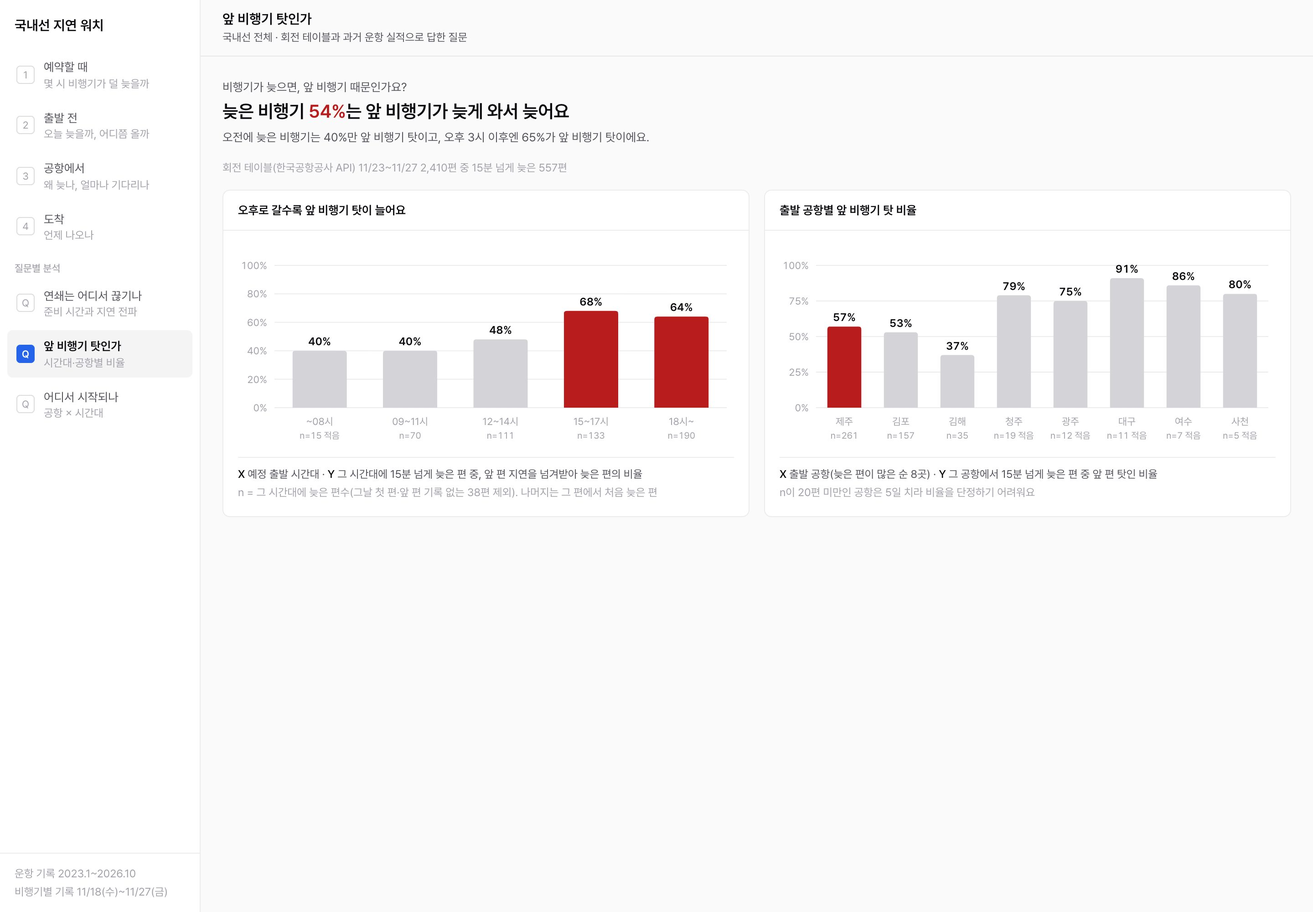
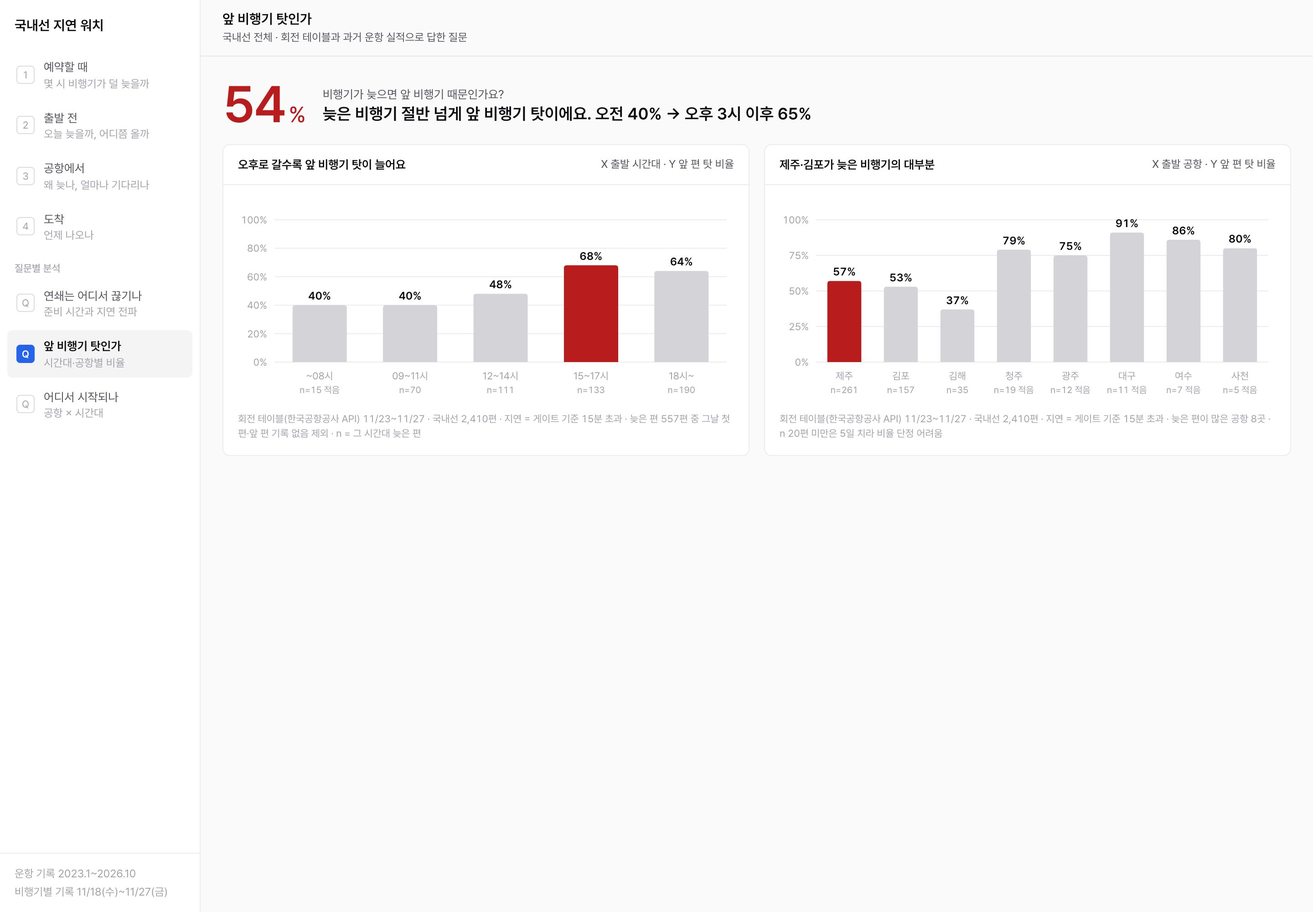
시안 다듬기: 큰 숫자+답 한 문장, 그래프마다 출처 한 줄, 강조색 하나만, 제주 날씨 결항 원인 막대 추가

diff --git a/web/components/QuestionPages.tsx b/web/components/QuestionPages.tsx
@@ -1,41 +1,23 @@
 "use client";
 
-// 질문별 분석 페이지: 한 질문 = 한 페이지, 그래프 2~3개. 모두 QuickSight 기본 차트(막대·열지도·KPI)로 옮길 수 있는 형태만 쓴다.
-// 그래프마다 X축·Y축과 값의 뜻을 한 줄로 붙이고, 표본이 작은 곳은 편수(n)를 같이 보여 준다.
-import type { ReactNode } from "react";
+// 질문별 분석 페이지: 한 질문 = 한 페이지. 큰 숫자 하나 + 답 한 문장 → 그래프 2개.
+// 차트는 QuickSight 기본 차트(막대·열지도)로 옮길 수 있는 형태만 쓴다. 강조는 막대·칸 하나만.
+// 카드 오른쪽 작은 글씨 = X·Y축, 그래프 아래 옅은 한 줄 = 출처(원천·기간·기준·n).
 import type { Airports, Questions } from "@/lib/types";
-import { Answer, Card, KpiTile } from "@/components/ui";
+import { Card, Hero, Src } from "@/components/ui";
 import { BarChart } from "@/components/charts";
 
 const pct = (a: number, b: number) => (b ? Math.round((100 * a) / b) : 0);
 const BANDS = ["~08시", "09~11시", "12~14시", "15~17시", "18시~"];
-const SMALL = 20; // 이보다 적으면 "표본 작음"
+const SMALL = 20; // 이보다 적으면 "적음"
+const md = (s: string) => `${+s.slice(4, 6)}/${+s.slice(6)}`;
+const KAC = (q: Questions) => `회전 테이블(한국공항공사 API) ${md(q.period.from)}~${md(q.period.to)} · 국내선 ${q.flights.toLocaleString()}편 · 지연 = 게이트 기준 15분 초과`;
+const XY = ({ x, y }: { x: string; y: string }) => <span>X {x} · Y {y}</span>;
 
-/** 그래프 아래 한 줄: X축·Y축과 값의 뜻 */
-function Axis({ x, y, note }: { x: string; y: string; note?: ReactNode }) {
-  return (
-    <p className="mt-3 border-t border-line pt-2 text-xs leading-5 text-ink-2">
-      <b className="font-medium text-ink">X</b> {x} · <b className="font-medium text-ink">Y</b> {y}
-      {note && <span className="block text-ink-3">{note}</span>}
-    </p>
-  );
-}
-
-function Source({ q, hist }: { q: Questions; hist?: boolean }) {
-  const d = (s: string) => `${+s.slice(4, 6)}/${+s.slice(6)}`;
-  return (
-    <p className="text-xs text-ink-3">
-      {hist
-        ? `과거 운항 실적(항공정보포털) ${q.od_period.from.slice(0, 4)}.${+q.od_period.from.slice(4, 6)}~${q.od_period.to.slice(0, 4)}.${+q.od_period.to.slice(4, 6)}, 국내선 여객 출발편`
-        : `회전 테이블(한국공항공사 API) ${d(q.period.from)}~${d(q.period.to)} ${q.flights.toLocaleString()}편 중 15분 넘게 늦은 ${q.late}편`}
-    </p>
-  );
-}
-
-/** 열지도(QuickSight Heat map과 같은 모양): 칸 색 = 값, 칸 글자 = 값 */
-function Heatmap({ rows, cols, cell, fmt, colLabel, rowLabel }: {
+/** 열지도(QuickSight Heat map): 가장 큰 칸만 진하게, 나머지는 옅게 */
+function Heatmap({ rows, cols, cell, fmt, rowLabel }: {
   rows: string[]; cols: string[]; cell: (r: string, c: string) => { v: number | null; tip: string };
-  fmt: (v: number) => string; colLabel?: (c: string) => string; rowLabel?: (r: string) => string;
+  fmt: (v: number) => string; rowLabel?: (r: string) => string;
 }) {
   const vals = rows.flatMap((r) => cols.map((c) => cell(r, c).v)).filter((v): v is number => v != null);
   const max = Math.max(1e-9, ...vals);
@@ -45,7 +27,7 @@ function Heatmap({ rows, cols, cell, fmt, colLabel, rowLabel }: {
         <thead>
           <tr>
             <th />
-            {cols.map((c) => <th key={c} className="whitespace-nowrap px-1 pb-1 text-center font-normal text-ink-3">{colLabel ? colLabel(c) : c}</th>)}
+            {cols.map((c) => <th key={c} className="whitespace-nowrap px-1 pb-1 text-center font-normal text-ink-3">{c}</th>)}
           </tr>
         </thead>
         <tbody>
@@ -54,10 +36,11 @@ function Heatmap({ rows, cols, cell, fmt, colLabel, rowLabel }: {
               <th className="whitespace-nowrap pr-2 text-right font-normal text-ink-2">{rowLabel ? rowLabel(r) : r}</th>
               {cols.map((c) => {
                 const { v, tip } = cell(r, c);
-                const a = v == null ? 0 : 0.08 + 0.82 * (v / max);
+                const top = v === max;
+                const a = v == null ? 0 : top ? 100 : Math.round(6 + 34 * (v / max));
                 return (
-                  <td key={c} title={tip} className="h-8 min-w-10 rounded-[4px] text-center"
-                    style={{ background: v == null ? "var(--subtle)" : `color-mix(in srgb, var(--bad) ${Math.round(a * 100)}%, var(--surface))`, color: a > 0.55 ? "#fff" : "var(--ink)" }}>
+                  <td key={c} title={tip} className={`h-8 min-w-10 rounded-[4px] text-center ${top ? "font-semibold" : ""}`}
+                    style={{ background: v == null ? "var(--subtle)" : `color-mix(in srgb, var(--bad) ${a}%, var(--surface))`, color: top ? "#fff" : "var(--ink-2)" }}>
                     {v == null ? <span className="text-ink-3">·</span> : fmt(v)}
                   </td>
                 );
@@ -70,72 +53,63 @@ function Heatmap({ rows, cols, cell, fmt, colLabel, rowLabel }: {
   );
 }
 
-/* ---------- C. 연쇄 지연은 어디서 끊기나요? ---------- */
+/* ---------- 연쇄 지연은 어디서 끊기나 ---------- */
 export function ChainBreakPage({ q }: { q: Questions }) {
   const s = q.c_slack, starts = q.c_len.reduce((a, b) => a + b.n, 0);
-  const half = s.find((x) => pct(x.ontime, x.n) >= 45);
+  const half = s.find((x) => pct(x.ontime, x.n) >= 45) ?? s[s.length - 1];
+  const best = s[s.length - 1];
   return (
     <div className="flex flex-col gap-4">
-      <Answer q="앞 비행기가 늦게 오면, 내 비행기도 꼭 늦나요?"
-        sub={<>준비 시간이 40분 미만이면 거의 다({100 - pct(s[0].ontime, s[0].n)}%) 따라 늦어요. 보통 비행기의 준비 시간은 {q.turn_median}분이라 여유가 5분 남짓이에요.</>}>
-        준비 시간이 <span className="text-ok">{half ? parseInt(half.bucket) : 60}분</span> 넘게 잡혀 있어야 절반쯤 제때 떠요
-      </Answer>
-      <Source q={q} />
-      <div className="grid grid-cols-2 gap-3 lg:grid-cols-4">
-        <KpiTile label="보통 준비 시간(중간값)" value={`${q.turn_median}`} unit="분" note="최소 필요 40분" />
-        <KpiTile label="앞 편이 늦게 온 편" value={`${s.reduce((a, b) => a + b.n, 0)}`} unit="편" note="15분 넘게 늦게 도착" />
-        <KpiTile label="그래도 제때 뜬 편" value={`${pct(s.reduce((a, b) => a + b.ontime, 0), s.reduce((a, b) => a + b.n, 0))}`} unit="%" tone="ok" />
-        <KpiTile label="3편 이상 이어진 연쇄" value={`${pct(q.c_len.find((x) => x.hops === 3)?.n ?? 0, starts)}`} unit="%" note={`처음 늦은 ${starts}편 기준`} />
-      </div>
+      <Hero q="앞 비행기가 늦으면 내 비행기도 꼭 늦나요?" value={`${100 - pct(s[0].ontime, s[0].n)}`} unit="%" tone="bad">
+        준비 시간이 40분이 안 되면 거의 다 따라 늦어요. {parseInt(half.bucket)}분은 넘어야 절반이 제때 떠요(보통 {q.turn_median}분)
+      </Hero>
       <div className="grid gap-4 xl:grid-cols-2">
-        <Card title="준비 시간이 길수록 지연이 끊겨요">
+        <Card title="준비 시간이 길수록 지연이 끊겨요" right={<XY x="준비 시간" y="제때 뜬 비율" />}>
           <BarChart showValues max={100}
-            bars={s.map((x, i) => ({ key: x.bucket, label: x.bucket, sub: `n=${x.n}`, value: pct(x.ontime, x.n), tone: i === 0 ? "bad" : i === s.length - 1 ? "ok" : undefined, tip: `${x.bucket} · ${x.n}편 중 ${x.ontime}편 제때 출발` }))} />
-          <Axis x="계획 준비 시간(앞 편 도착 예정 ~ 이 편 출발 예정)" y="앞 편이 15분 넘게 늦게 왔는데도 이 편이 제때(15분 이내) 뜬 비율 = 연쇄가 끊긴 비율"
-            note="n = 그 구간에서 앞 편이 늦게 온 편수" />
+            bars={s.map((x) => ({ key: x.bucket, label: x.bucket, sub: `n=${x.n}`, value: pct(x.ontime, x.n), tone: x === best ? "ok" : undefined, tip: `${x.bucket} · 앞 편이 늦은 ${x.n}편 중 ${x.ontime}편 제때 출발` }))} />
+          <Src>{KAC(q)} · 앞 편이 15분 넘게 늦게 도착한 {s.reduce((a, b) => a + b.n, 0)}편 · 준비 시간 = 앞 편 도착 예정~이 편 출발 예정</Src>
         </Card>
-        <Card title="처음 늦은 비행기는 지연을 몇 편까지 넘겼나">
+        <Card title="처음 늦은 비행기 절반 이상은 지연을 넘기지 않아요" right={<XY x="뒤이어 늦은 편 수" y="비행기 수" />}>
           <BarChart showValues unit="편"
-            bars={q.c_len.map((x) => ({ key: x.hops, label: x.hops === 0 ? "안 넘김" : x.hops === 3 ? "3편 이상" : `${x.hops}편`, sub: `${pct(x.n, starts)}%`, value: x.n, tone: x.hops === 0 ? "ok" : x.hops === 3 ? "bad" : undefined, tip: `${x.n}편` }))} />
-          <Axis x="같은 기체에서 뒤이어 늦은 편 수(앞 편 지연을 넘겨받아 15분 넘게 늦은 편이 연속된 수)" y="그렇게 연쇄를 시작한 비행기 수"
-            note={`처음 늦은 편 ${starts}편 기준`} />
+            bars={q.c_len.map((x) => ({ key: x.hops, label: x.hops === 0 ? "안 넘김" : x.hops === 3 ? "3편 이상" : `${x.hops}편`, sub: `${pct(x.n, starts)}%`, value: x.n, tone: x.hops === 0 ? "ok" : undefined, tip: `${x.n}편` }))} />
+          <Src>{KAC(q)} · 그날 처음 늦은 비행기 {starts}편 · 같은 기체에서 앞 편 지연을 넘겨받아 늦은 편이 이어진 수</Src>
         </Card>
       </div>
     </div>
   );
 }
 
-/* ---------- A. 늦은 비행기, 앞 비행기 탓인가요? ---------- */
+/* ---------- 앞 비행기 탓인가 ---------- */
 export function BlamePage({ q, AP }: { q: Questions; AP: Airports | null }) {
   const ko = (c: string) => AP?.[c]?.ko ?? c;
-  const prop = q.a_band.reduce((a, b) => a + b.prop, 0), skip = (q.origin_mix.first_leg ?? 0) + (q.origin_mix.unknown ?? 0);
+  const prop = q.a_band.reduce((a, b) => a + b.prop, 0);
   const am = q.a_band.slice(0, 2).reduce((a, b) => [a[0] + b.prop, a[1] + b.n], [0, 0]);
   const pm = q.a_band.slice(3).reduce((a, b) => [a[0] + b.prop, a[1] + b.n], [0, 0]);
+  const topBand = q.a_band.reduce((m, x) => (pct(x.prop, x.n) > pct(m.prop, m.n) ? x : m));
   const aps = q.a_airport.slice(0, 8);
+  const topAp = aps[0];
   return (
     <div className="flex flex-col gap-4">
-      <Answer q="비행기가 늦으면, 앞 비행기 때문인가요?"
-        sub={<>오전에 늦은 비행기는 {pct(am[0], am[1])}%만 앞 비행기 탓이고, 오후 3시 이후엔 {pct(pm[0], pm[1])}%가 앞 비행기 탓이에요.</>}>
-        늦은 비행기 <span className="text-bad">{pct(prop, q.late)}%</span>는 앞 비행기가 늦게 와서 늦어요
-      </Answer>
-      <Source q={q} />
+      <Hero q="비행기가 늦으면 앞 비행기 때문인가요?" value={`${pct(prop, q.late)}`} unit="%" tone="bad">
+        늦은 비행기 절반 넘게 앞 비행기 탓이에요. 오전 {pct(am[0], am[1])}% → 오후 3시 이후 {pct(pm[0], pm[1])}%
+      </Hero>
       <div className="grid gap-4 xl:grid-cols-2">
-        <Card title="오후로 갈수록 앞 비행기 탓이 늘어요">
+        <Card title="오후로 갈수록 앞 비행기 탓이 늘어요" right={<XY x="출발 시간대" y="앞 편 탓 비율" />}>
           <BarChart showValues max={100}
-            bars={q.a_band.map((x) => ({ key: x.band, label: x.band, sub: `n=${x.n}${x.n < SMALL ? " 적음" : ""}`, value: pct(x.prop, x.n), tone: pct(x.prop, x.n) >= 60 ? "bad" : undefined, tip: `${x.band} · 늦은 ${x.n}편 중 ${x.prop}편이 앞 편 탓` }))} />
-          <Axis x="예정 출발 시간대" y="그 시간대에 15분 넘게 늦은 편 중, 앞 편 지연을 넘겨받아 늦은 편의 비율" note={`n = 그 시간대에 늦은 편수(그날 첫 편·앞 편 기록 없는 ${skip}편 제외). 나머지는 그 편에서 처음 늦은 편`} />
+            bars={q.a_band.map((x) => ({ key: x.band, label: x.band, sub: `n=${x.n}${x.n < SMALL ? " 적음" : ""}`, value: pct(x.prop, x.n), tone: x === topBand ? "bad" : undefined, tip: `${x.band} · 늦은 ${x.n}편 중 ${x.prop}편이 앞 편 탓` }))} />
+          <Src>{KAC(q)} · 늦은 편 {q.late}편 중 그날 첫 편·앞 편 기록 없음 제외 · n = 그 시간대 늦은 편</Src>
         </Card>
-        <Card title="출발 공항별 앞 비행기 탓 비율">
+        <Card title="제주·김포가 늦은 비행기의 대부분" right={<XY x="출발 공항" y="앞 편 탓 비율" />}>
           <BarChart showValues max={100}
-            bars={aps.map((x) => ({ key: x.ap, label: ko(x.ap), sub: `n=${x.n}${x.n < SMALL ? " 적음" : ""}`, value: pct(x.prop, x.n), tone: x.n < SMALL ? undefined : pct(x.prop, x.n) >= 55 ? "bad" : undefined, tip: `${ko(x.ap)} · 늦은 ${x.n}편 중 ${x.prop}편이 앞 편 탓` }))} />
-          <Axis x="출발 공항(늦은 편이 많은 순 8곳)" y="그 공항에서 15분 넘게 늦은 편 중 앞 편 탓인 비율" note={`n이 ${SMALL}편 미만인 공항은 5일 치라 비율을 단정하기 어려워요`} />
+            bars={aps.map((x) => ({ key: x.ap, label: ko(x.ap), sub: `n=${x.n}${x.n < SMALL ? " 적음" : ""}`, value: pct(x.prop, x.n), tone: x === topAp ? "bad" : undefined, tip: `${ko(x.ap)} · 늦은 ${x.n}편 중 ${x.prop}편이 앞 편 탓` }))} />
+          <Src>{KAC(q)} · 늦은 편이 많은 공항 8곳 · n {SMALL}편 미만은 5일 치라 비율 단정 어려움</Src>
         </Card>
       </div>
     </div>
   );
 }
 
-/* ---------- B. 지연은 어디서 시작되나요? ---------- */
+/* ---------- 어디서 시작되나 ---------- */
 export function OriginPage({ q, AP }: { q: Questions; AP: Airports | null }) {
   const ko = (c: string) => AP?.[c]?.ko ?? c;
   const starts = q.b_cells.reduce((a, b) => a + b.n, 0);
@@ -143,29 +117,26 @@ export function OriginPage({ q, AP }: { q: Questions; AP: Airports | null }) {
   q.b_cells.forEach((c) => byAp.set(c.ap, (byAp.get(c.ap) ?? 0) + c.n));
   const apRows = [...byAp.entries()].sort((a, b) => b[1] - a[1]).map(([a]) => a);
   const top = [...q.b_cells].sort((a, b) => b.n - a.n)[0];
-  const cju = (byAp.get("CJU") ?? 0) + (byAp.get("GMP") ?? 0);
-  // 출발×도착: 운항 많은 공항 순
+  const cg = (byAp.get("CJU") ?? 0) + (byAp.get("GMP") ?? 0);
   const vol = new Map<string, number>();
   q.od.forEach((r) => { vol.set(r.dep, (vol.get(r.dep) ?? 0) + r.flights); vol.set(r.arr, (vol.get(r.arr) ?? 0) + r.flights); });
   const aps = [...vol.entries()].sort((a, b) => b[1] - a[1]).map(([a]) => a);
   const od = new Map(q.od.map((r) => [`${r.dep}|${r.arr}`, r]));
+  const p = q.od_period;
   return (
     <div className="flex flex-col gap-4">
-      <Answer q="지연은 어느 공항, 몇 시에 처음 시작되나요?"
-        sub={<>가장 많은 곳은 {ko(top.ap)} {top.band} 출발편({top.n}편)이에요. 제주는 오전부터 지연이 시작돼요.</>}>
-        처음 늦는 비행기 <span className="text-bad">{pct(cju, starts)}%</span>가 제주·김포에서 떠요
-      </Answer>
-      <Source q={q} />
-      <Card title="처음 늦은 비행기가 나온 공항 × 시간대">
+      <Hero q="지연은 어느 공항, 몇 시에 처음 시작되나요?" value={`${pct(cg, starts)}`} unit="%" tone="bad">
+        처음 늦는 비행기 대부분이 제주·김포에서 떠요. 가장 많은 곳은 {ko(top.ap)} {top.band}
+      </Hero>
+      <Card title="처음 늦은 비행기가 나온 공항 × 시간대" right={<XY x="출발 시간대" y="출발 공항" />}>
         <Heatmap rows={apRows} cols={BANDS} rowLabel={ko} fmt={(v) => `${v}`}
           cell={(r, c) => { const x = q.b_cells.find((y) => y.ap === r && y.band === c); return { v: x ? x.n : null, tip: `${ko(r)} ${c} · ${x?.n ?? 0}편` }; }} />
-        <Axis x="예정 출발 시간대" y="출발 공항" note={`칸 값 = 앞 편은 제때 왔는데 그 편에서 처음 15분 넘게 늦은 편수(연쇄 시작점), 모두 ${starts}편. 빈칸(·) = 0편`} />
+        <Src>{KAC(q)} · 칸 = 앞 편은 제때 왔는데 그 편에서 처음 늦은 편수, 모두 {starts}편 · · = 0편</Src>
       </Card>
-      <Card title="노선 전체 그림: 출발 × 도착 지연률">
+      <Card title="노선 전체: 출발 × 도착 지연률" right={<XY x="도착 공항" y="출발 공항" />}>
         <Heatmap rows={aps} cols={aps} fmt={(v) => `${Math.round(v)}`}
           cell={(r, c) => { const x = od.get(`${r}|${c}`); return x && x.base >= 300 ? { v: (100 * x.late) / x.base, tip: `${r} → ${c} · ${x.base.toLocaleString()}편 중 ${Math.round((100 * x.late) / x.base)}% 지연` } : { v: null, tip: x ? `${r} → ${c} · ${x.base}편(적음)` : `${r} → ${c} · 노선 없음` }; }} />
-        <Axis x="도착 공항" y="출발 공항" note="칸 값 = 15분 넘게 늦게 출발한 편 비율(%). 운항 많은 공항 순. 빈칸(·) = 노선 없음 또는 300편 미만" />
-        <div className="mt-2"><Source q={q} hist /></div>
+        <Src>과거 운항 실적(항공정보포털) {p.from.slice(0, 4)}.{+p.from.slice(4, 6)}~{p.to.slice(0, 4)}.{+p.to.slice(4, 6)} · 국내선 여객 출발편 · 칸 = 15분 넘게 늦게 출발한 비율(%) · · = 노선 없음 또는 300편 미만</Src>
       </Card>
     </div>
   );

diff --git a/web/components/BookTab.tsx b/web/components/BookTab.tsx
@@ -3,7 +3,8 @@
 // 예약할 때: 질문 → 답 → KPI → 시간대 차트 → 항공사·비행기 표 → 늦는 이유 → (제주행이면) 월별 결항
 import type { History, RouteAirline, RouteFlight, RouteHour } from "@/lib/types";
 import { CAUSE, hourName, late10, tenOf } from "@/lib/words";
-import { Airline, Answer, Card, KpiTile, Meter, Table, type Col } from "@/components/ui";
+import { useEffect, useState } from "react";
+import { Airline, Answer, Card, KpiTile, Meter, Src, Table, type Col } from "@/components/ui";
 import { BarChart } from "@/components/charts";
 
 export function BookTab({ h, dep, arr }: { h: History; dep: string; arr: string }) {
@@ -26,6 +27,8 @@ export function BookTab({ h, dep, arr }: { h: History; dep: string; arr: string 
   if (!route || !best || !worst) return <Card><p className="text-ink-2">이 노선은 기록이 부족해요</p></Card>;
 
   const rRate = Math.round((1000 * route.late) / route.base) / 10;
+  const per = `${h.period.from.slice(0, 4)}.${+h.period.from.slice(4, 6)}~${h.period.to.slice(0, 4)}.${+h.period.to.slice(4, 6)}`;
+  const SRC = `항공정보포털 운항 실적 · 국내선 여객 출발편 · 지연 = 게이트 기준 15분 초과`;
   const airCols: Col<RouteAirline>[] = [
     { key: "rk", label: "순위", width: "48px", render: (a) => <span className="text-ink-2">{airlines.indexOf(a) + 1}</span> },
     { key: "nm", label: "항공사", render: (a) => <Airline name={a.airline} /> },
@@ -57,18 +60,21 @@ export function BookTab({ h, dep, arr }: { h: History; dep: string; arr: string 
 
       <Card title="출발 시간대별 15분 넘게 늦게 뜬 비율">
         <BarChart
-          bars={hours.map((x) => ({ key: x.h, label: `${x.h}시`, value: Math.round(1000 * rate(x)) / 10, tone: x === best ? "ok" : x === worst ? "bad" : undefined, tip: `${x.h}시 · 10번 중 ${tenOf(x.late, x.base)}번 · ${x.flights.toLocaleString()}편` }))}
+          bars={hours.map((x) => ({ key: x.h, label: `${x.h}시`, value: Math.round(1000 * rate(x)) / 10, tone: x === best ? "ok" : undefined, tip: `${x.h}시 · 10번 중 ${tenOf(x.late, x.base)}번 · ${x.flights.toLocaleString()}편` }))}
           tickEvery={2}
-          legend={[{ tone: "ok", label: "제일 덜 늦는 시간" }, { tone: "bad", label: "제일 많이 늦는 시간" }]}
+          legend={[{ tone: "ok", label: "제일 덜 늦는 시간" }]}
         />
+        <Src>{SRC} · {per} · {dep} → {arr} {route.base.toLocaleString()}편 · 그 시간대 편 중 늦은 비율 · 200편 미만 시간대 제외</Src>
       </Card>
 
       <div className="grid gap-4 xl:grid-cols-2">
         <Card title="제일 많이 늦는 항공사">
           <Table cols={airCols} rows={airlines} rowKey={(a) => a.airline} />
+          <Src>{SRC} · {per} · 이 노선 200편 이상, 지금도 운항하는 항공사</Src>
         </Card>
         <Card title="제일 자주 늦는 비행기">
           <Table cols={flCols} rows={flights} rowKey={(f) => f.flight} />
+          <Src>{SRC} · 2025.1~{h.period.to.slice(0, 4)}.{+h.period.to.slice(4, 6)} · 편명별 100편 이상</Src>
         </Card>
       </div>
 
@@ -82,6 +88,7 @@ export function BookTab({ h, dep, arr }: { h: History; dep: string; arr: string 
               { key: "c", label: "이유", render: (c) => CAUSE[c.cause_group] },
               { key: "v", label: "늦은 비행기 100대 중", align: "right", render: (c) => `${Math.max(1, Math.round((100 * c.late) / ctot))}대` },
             ]} rows={causes.slice(0, 4)} rowKey={(c) => c.cause_group} />
+            <Src>{SRC} · {per} · 15분 넘게 늦은 편의 기록된 사유 · 사유 분류는 2023.1부터</Src>
           </Card>
         )}
         <Card title="전체 국내선에서 늦는 이유 순위">
@@ -90,6 +97,7 @@ export function BookTab({ h, dep, arr }: { h: History; dep: string; arr: string 
             { key: "c", label: "이유", render: (c) => <span className={causes[0] && c.cause_group === causes[0].cause_group ? "font-semibold" : ""}>{CAUSE[c.cause_group]}</span> },
             { key: "v", label: "늦은 비행기 100대 중", align: "right", render: (c) => `${Math.max(1, Math.round((100 * c.late) / atot))}대` },
           ]} rows={all.slice(0, 5)} rowKey={(c) => c.cause_group} />
+          <Src>{SRC} · 2025.1~{h.period.to.slice(0, 4)}.{+h.period.to.slice(4, 6)} · 국내선 전체 늦은 편의 기록된 사유</Src>
         </Card>
       </div>
 
@@ -98,7 +106,11 @@ export function BookTab({ h, dep, arr }: { h: History; dep: string; arr: string 
   );
 }
 
+type JejuWeather = { source: string; total: number; kinds: { kind: string; n: number }[]; after_2023: { weather_cancel: number; note: string } };
+
 function JejuCard({ h, dep }: { h: History; dep: string }) {
+  const [W, setW] = useState<JejuWeather | null>(null);
+  useEffect(() => { fetch("/data/jeju_weather.json").then((r) => r.json()).then(setW).catch(() => setW(null)); }, []);
   const jo = dep !== "제주" && h.jeju_month.some((r) => r.dep === dep) ? dep : "전체";
   const m = Array.from({ length: 12 }, (_, i) => ({ m: i + 1, f: 0, c: 0, w: 0 }));
   h.jeju_month.filter((r) => r.m && (jo === "전체" || r.dep === jo)).forEach((r) => { const x = m[(r.m as number) - 1]; x.f += r.flights; x.c += r.cancelled; x.w += r.cancelled_weather; });
@@ -116,6 +128,16 @@ function JejuCard({ h, dep }: { h: History; dep: string }) {
         </Answer>
       </div>
       <BarChart bars={m.map((x) => ({ key: x.m, label: `${x.m}월`, value: per(x), tone: x === top ? "bad" : undefined, tip: `${x.m}월 · 100편 중 ${per(x)}편 결항 · ${x.f.toLocaleString()}편` }))} height={180} />
+      <Src>항공정보포털 운항 실적 · {h.period.from.slice(0, 4)}.{+h.period.from.slice(4, 6)}~{h.period.to.slice(0, 4)}.{+h.period.to.slice(4, 6)} · {jo === "전체" ? "전국" : jo} → 제주 여객 출발편 · 결항률 = 결항 ÷ 운항</Src>
+      {W && (
+        <div className="mt-5 border-t border-line pt-4">
+          <p className="mb-1 text-[13px] font-semibold text-ink">날씨 결항은 무엇 때문이었나</p>
+          <p className="mb-2 text-xs text-ink-2">바람·눈·태풍이 {Math.round((100 * W.kinds.filter((k) => ["바람", "눈", "태풍"].includes(k.kind)).reduce((a, b) => a + b.n, 0)) / W.total)}%</p>
+          <BarChart showValues height={170}
+            bars={W.kinds.filter((k) => k.n >= 5).map((k, i) => ({ key: k.kind, label: k.kind, value: Math.round((100 * k.n) / W.total), tone: i === 0 ? "bad" : undefined, tip: `${k.kind} · ${k.n}편` }))} />
+          <Src>{W.source} · 날씨 결항 {W.total.toLocaleString()}편 · 2023년부터는 사유가 &apos;기상&apos; 하나로만 기록돼 종류를 알 수 없음</Src>
+        </div>
+      )}
     </Card>
   );
 }

diff --git a/web/components/FlightTabs.tsx b/web/components/FlightTabs.tsx
@@ -4,13 +4,14 @@
 import { useEffect, useMemo, useState } from "react";
 import type { Airports, History, Leg, Satellite } from "@/lib/types";
 import { clock, dayLabel, delayTone, delayWord, dur, hm, mins, shift } from "@/lib/words";
-import { Airline, Answer, Badge, Card, KpiTile, Table, type Col } from "@/components/ui";
+import { Airline, Answer, Badge, Card, KpiTile, Src, Table, type Col } from "@/components/ui";
 import { SatMap } from "@/components/SatMap";
 import { CascadeGraph } from "@/components/CascadeGraph";
 import { cascadeOrigin, computeCascade, MTT_MIN } from "@/lib/cascade";
 
 type Ctx = { h: History; AP: Airports; ROT: Record<string, Leg[]>; DAYS: string[]; day: string; cur: Leg; goDay: (d: string, fno?: string) => void; SAT: Satellite | null };
 const koOf = (AP: Airports) => (c: string | null) => (c ? AP[c]?.ko ?? c : "");
+const KACS = (days: string[]) => `회전 테이블(한국공항공사 API) ${days.length ? `${dayLabel(days[0])}~${dayLabel(days[days.length - 1])}` : ""} · 지연 = 게이트 기준 15분 초과`;
 const legsOf = (rows: Leg[], r: Leg) => rows.filter((x) => x.reg_no === r.reg_no).sort((a, b) => (a.dep_sched_at < b.dep_sched_at ? -1 : 1));
 
 export function LeaveTab({ h, AP, ROT, DAYS, day, cur, goDay, SAT }: Ctx) {
@@ -45,6 +46,7 @@ export function LeaveTab({ h, AP, ROT, DAYS, day, cur, goDay, SAT }: Ctx) {
       <div className="grid gap-4 xl:grid-cols-[minmax(0,3fr)_minmax(0,2fr)]">
         <Card title="내가 탈 비행기는 지금 어디쯤?">
           <SatMap key={r.flight_no + day} legs={prev ? [prev, r] : [r]} cur={r} AP={AP} SAT={SAT} />
+          <Src>{KACS([day])} · 위치는 이륙·착륙 시각 사이를 나눈 추정 · 위성 사진 Esri</Src>
         </Card>
         <Card title={`${r.flight_no}, 다른 날은 어땠어요?`} right={<span>최근 {seen.length}번 운항 중 {lateN}번 늦음</span>}>
           <div className="mb-4 grid grid-cols-2 gap-3">{cmp("하루 전", shift(day, -1))}{cmp("일주일 전 같은 요일", shift(day, -7))}</div>
@@ -54,6 +56,7 @@ export function LeaveTab({ h, AP, ROT, DAYS, day, cur, goDay, SAT }: Ctx) {
               { key: "s", label: "출발", align: "right", render: (dd) => { const x = on(dd); return x ? <Badge tone={delayTone(x.dep_delay_gate_est_min)}>{delayWord(x.dep_delay_gate_est_min)}</Badge> : <span className="text-ink-3">운항 없음</span>; } },
             ]}
             rows={[...DAYS].reverse()} rowKey={(dd) => dd} selected={(dd) => dd === day} onRow={(dd) => on(dd) && goDay(dd, r.flight_no)} />
+          <Src>{KACS(DAYS)} · 같은 편명·같은 출발 공항</Src>
         </Card>
       </div>
 
@@ -64,6 +67,7 @@ export function LeaveTab({ h, AP, ROT, DAYS, day, cur, goDay, SAT }: Ctx) {
           { key: "no", label: "편명", wide: true, render: (l) => l.flight_no },
           { key: "s", label: "출발", align: "right", render: (l) => <Badge tone={delayTone(l.dep_delay_gate_est_min)}>{delayWord(l.dep_delay_gate_est_min)}</Badge> },
         ]} rows={legs} rowKey={(l) => l.flight_no + l.dep_sched_at} selected={(l) => l === r} />
+        <Src>{KACS([day])} · 같은 등록번호 {r.reg_no}의 그날 비행</Src>
       </Card>
 
       <Domino legs={legs} r={r} ko={ko} />
@@ -97,6 +101,7 @@ function Domino({ legs, r, ko }: { legs: Leg[]; r: Leg; ko: (c: string | null) =
         {extra > 0 && <span className="font-medium text-ink">→ 내 비행기 {moved > 0 ? <span className="text-bad">{dur(moved)} 더 늦어요</span> : <span className="text-ok">그대로예요</span>}</span>}
       </div>
       <CascadeGraph chain={chain} myFlight={r.flight_no} ko={ko} />
+      <Src>회전 테이블(한국공항공사 API) {r.flight_date} · 같은 기체 {r.reg_no} · 넘어온 지연 = max(0, 앞 편 착륙 + 5분 + 40분 − 출발 예정) · 슬라이더는 가정</Src>
     </Card>
   );
 }
@@ -139,6 +144,7 @@ export function AirportTab({ h, AP, ROT, day, cur }: Ctx) {
               </div>
             </>
           ) : <p className="text-ink-2">이 노선은 지난 기록이 부족해요</p>}
+          <Src>항공정보포털 운항 실적 {h.period.from.slice(0, 4)}.{+h.period.from.slice(4, 6)}~{h.period.to.slice(0, 4)}.{+h.period.to.slice(4, 6)} · 같은 노선·같은 출발 시각대 출발 지연 중간값·90% 값{hr ? ` · ${hr.flights.toLocaleString()}편` : ""}</Src>
         </Card>
         <Card title="다른 비행기로 바꿀 수 있을까요?" right={<span>{alts.length ? `${ko(r.arr_airport)} 가는 다음 비행기 ${alts.length}편` : "다음 비행기 없음"}</span>}>
           {alts.length ? (
@@ -149,6 +155,7 @@ export function AirportTab({ h, AP, ROT, day, cur }: Ctx) {
               { key: "s", label: "출발", align: "right", render: (x) => <Badge tone={delayTone(x.dep_delay_gate_est_min)}>{x.dep_delay_gate_est_min == null ? "예정" : delayWord(x.dep_delay_gate_est_min)}</Badge> },
             ] as Col<Leg>[]} rows={alts} rowKey={(x) => x.flight_no + x.dep_sched_at} />
           ) : <p className="text-ink-2">이날은 {ko(r.arr_airport)} 가는 다음 비행기가 없어요</p>}
+          <Src>{KACS([day])} · 같은 노선, 내 출발 예정 30분 전부터 5편</Src>
         </Card>
       </div>
     </div>
@@ -178,6 +185,7 @@ export function ArriveTab({ AP, cur }: Ctx) {
           <label className="flex flex-col gap-1 text-xs text-ink-2">공항에서 나오는 데(분)<input type="number" min={0} step={5} value={out} onChange={(e) => setOut(+e.target.value || 0)} className={`${field} w-28`} /></label>
           <label className="flex flex-col gap-1 text-xs text-ink-2">약속 장소까지(분)<input type="number" min={0} step={5} value={move} onChange={(e) => setMove(+e.target.value || 0)} className={`${field} w-28`} /></label>
         </div>
+        <Src>회전 테이블(한국공항공사 API) {r.flight_date} 착륙 기록 · 착륙 + 5분(게이트) + 입력한 시간으로 계산</Src>
         <p className="mt-4 text-xl font-semibold">{left >= 0 ? <>약속까지 <span className="text-ok">{dur(left)}</span> 남아요</> : <>약속에 <span className="text-bad">{dur(-left)}</span> 늦어요</>}</p>
       </Card>
     </div>

diff --git a/web/components/ui.tsx b/web/components/ui.tsx
@@ -153,3 +153,23 @@ export function Meter({ value, max, tone }: { value: number; max: number; tone?:
     </span>
   );
 }
+
+/** 그래프 아래 출처 한 줄(작고 옅게): 원천 · 집계 기간 · 지연 기준 · n */
+export function Src({ children }: { children: ReactNode }) {
+  return <p className="num mt-3 text-[11px] leading-4 text-ink-3">{children}</p>;
+}
+
+/** 페이지 맨 위: 질문 한 줄 + 큰 숫자 하나 + 답 한 문장 */
+export function Hero({ q, value, unit, tone, children }: { q: string; value: string; unit?: string; tone?: Tone; children: ReactNode }) {
+  return (
+    <div className="flex flex-wrap items-end gap-x-5 gap-y-1">
+      <div className={`num text-[56px] font-semibold leading-none tracking-[-0.03em] ${tone ? TONE_TEXT[tone] : "text-ink"}`}>
+        {value}<small className="ml-1 text-2xl font-medium">{unit}</small>
+      </div>
+      <div className="min-w-0 pb-1">
+        <p className="text-[13px] text-ink-2">{q}</p>
+        <p className="text-lg font-semibold leading-snug text-ink [text-wrap:balance]">{children}</p>
+      </div>
+    </div>
+  );
+}
